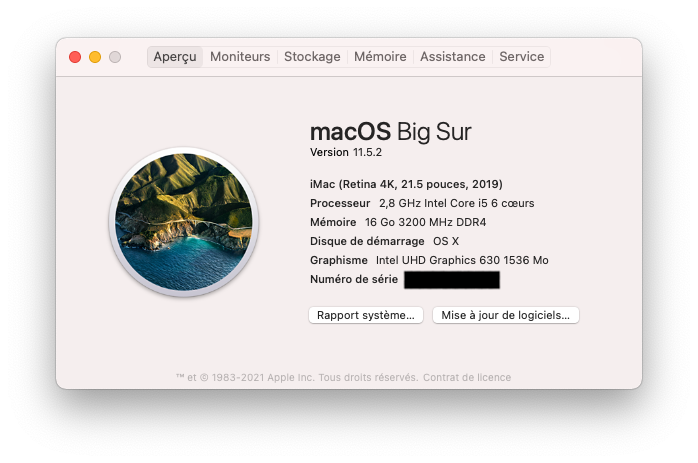
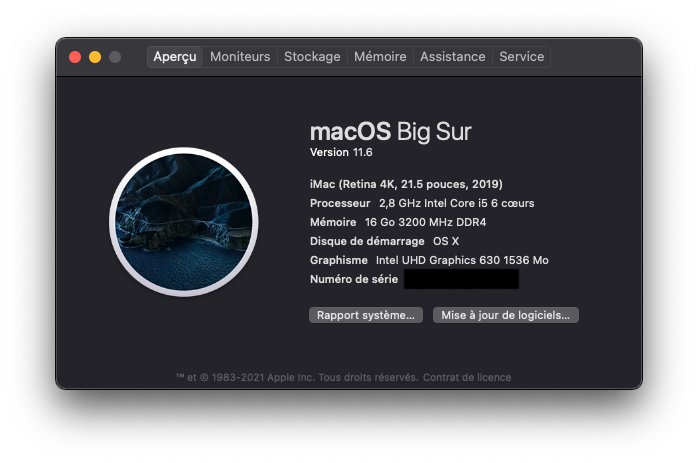
bump macOS version

diff --git a/README.md b/README.md
@@ -1,6 +1,6 @@
 # Hackintosh
 
-A Hackintosh running macOS Big Sur 11.5.2 with a i5-8400 and a Gigabyte Z370-HD3P.
+A Hackintosh running macOS Big Sur 11.6 with a i5-8400 and a Gigabyte Z370-HD3P.
 
 ![System spec](Pictures/system.png)
 
@@ -29,7 +29,7 @@ If you're curious, I changed two things in my `config.plist` to fix Catalina:
 
 I built my Hackintosh because I was disappointed with the price of the new Mac Mini 2018. Its configuration is close to the new mid-entry Mac Mini but with more RAM (16 instead of 8 Gb). Here are the specs:
 
-- macOS Big Sur 11.5.2
+- macOS Big Sur 11.6
 - Intel i5-8400 (6 cores @ 2.80 Ghz, 3.80 Ghz Turbo Boost)
 - Gigabyte Z370-HD3P
 - Corsair Vengeance LPX 16Gb (2x8Gb) DDR4 2666MHz OC @ 3200 Mhz (CMK16GX4M2A2666C16)
